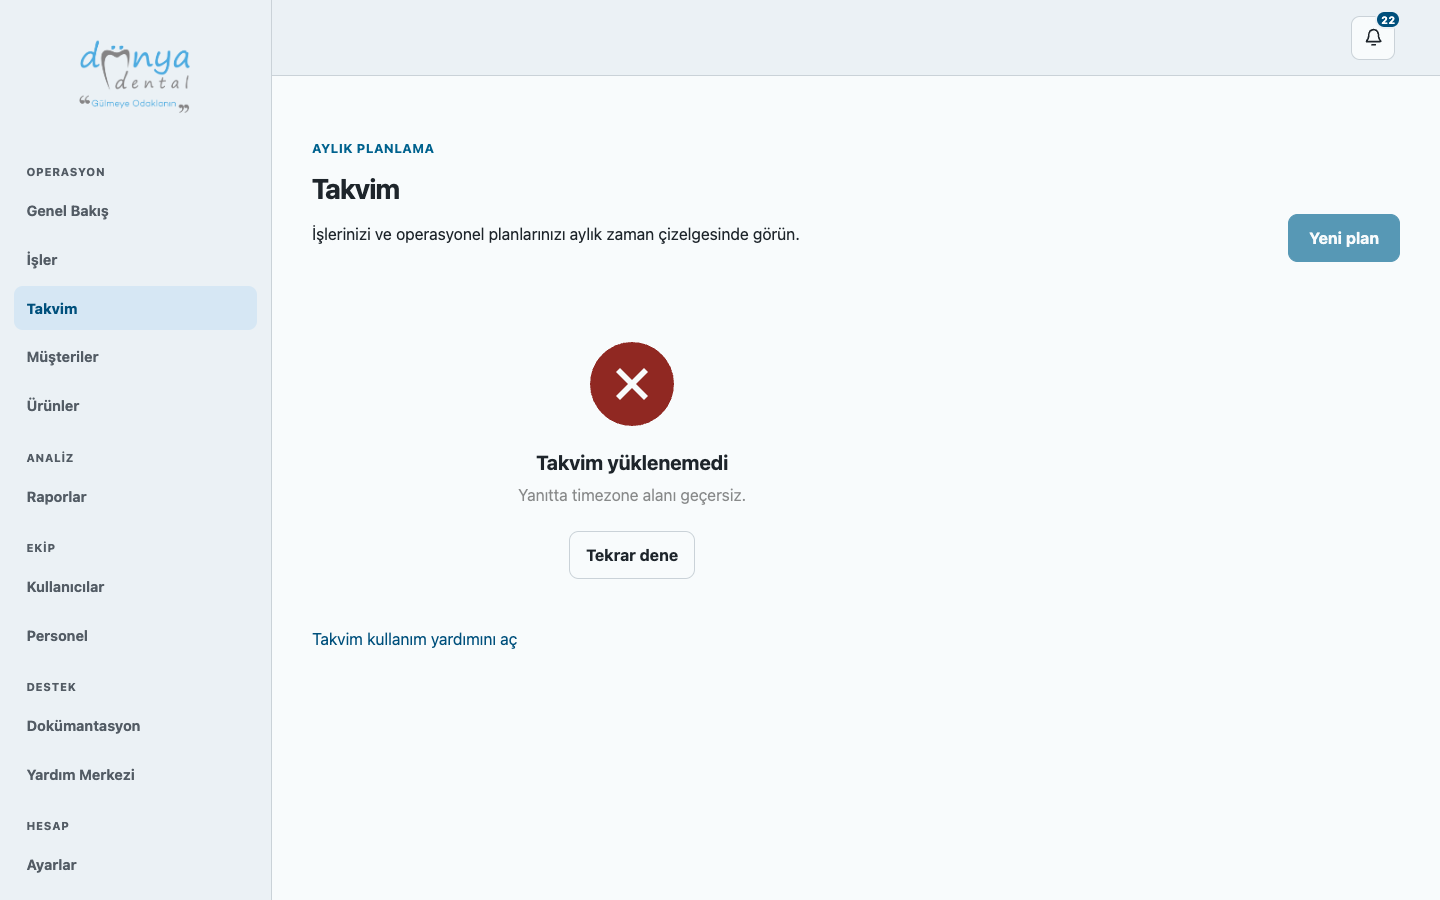
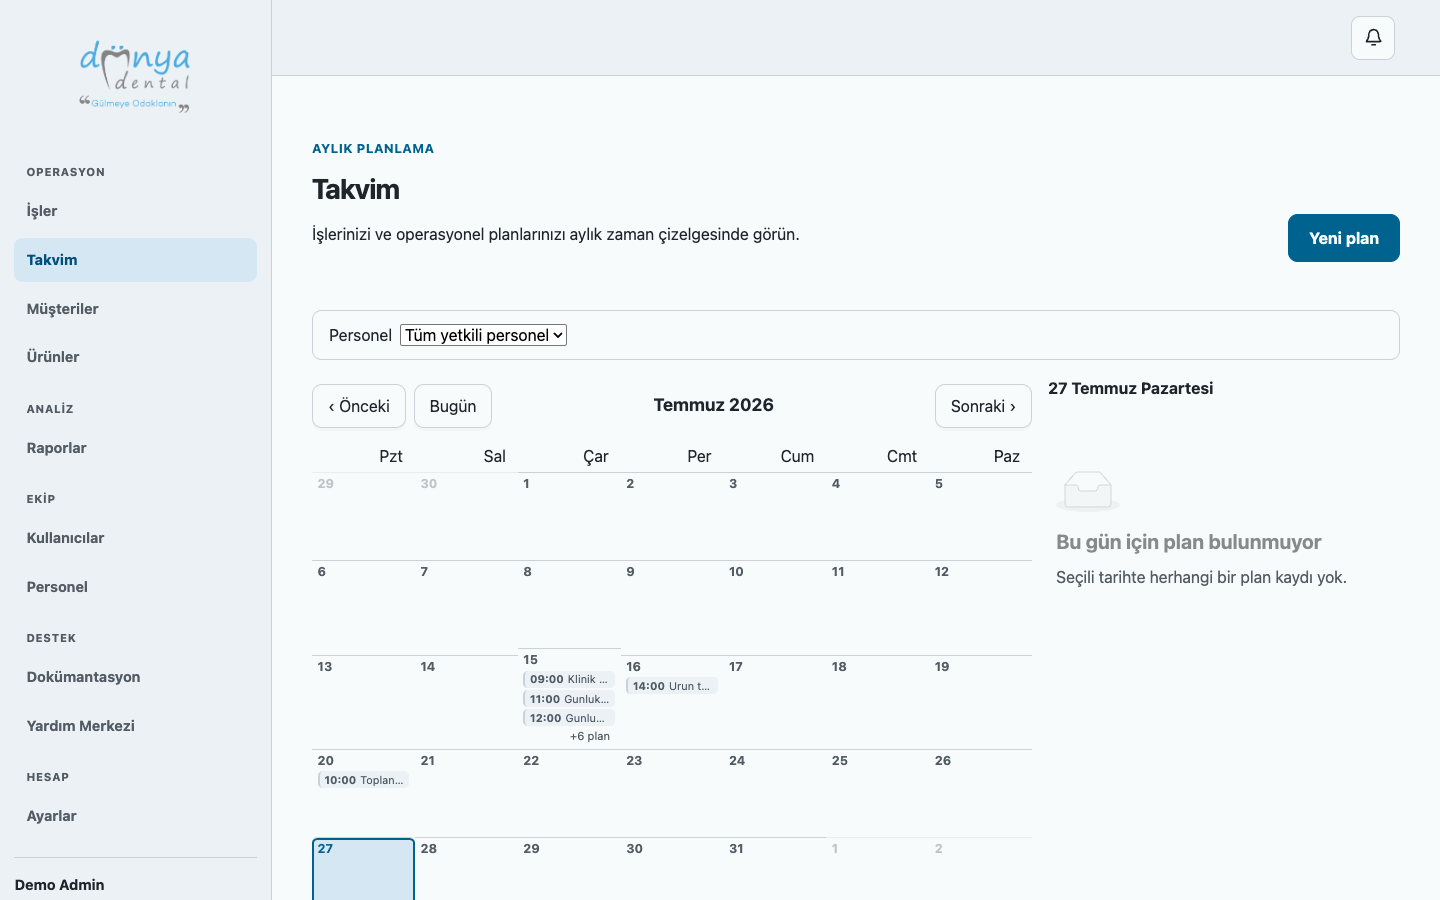
docs: update Calendar runtime visual evidence with real API backend
- All 14 PNGs captured with real Calendar API (not mocked)
- Added calendar-conflict-drawer.png (previously missing)
- Real 200% browser text zoom verified (no overflow)
- Updated README with accurate SHA, API status, and verification results
- All scenarios verified: STAFF 390/768/1024, MANAGER 1024, ADMIN 1440

diff --git a/docs/evidence/phase-u2-calendar/README.md b/docs/evidence/phase-u2-calendar/README.md
@@ -1,46 +1,60 @@
 # Phase U2 — Calendar Runtime Visual Evidence
 
-**Capture code SHA:** `81f015e` (approximate — evidence captured against live runtime at this commit)
+**Capture code SHA:** `a72d38e1d60cead0bd9d6ab467f9a1813d14678f`
 **Date:** 2026-07-27
-**Browser:** System Google Chrome via Playwright `channel: 'chrome'`, headless mode
-**Data:** Synthetic — all users (`@servora.local`), events, and assignees are mock/test data
-**API:** Mocked via Playwright route interception (`{ items: [...] }` format)
+**Browser:** Playwright (Chromium) against real running backend
+**Data:** Synthetic — all users (`@servora.local`), events, and assignees are disposable test data
+**API:** **Real Calendar API** — Fastify server with PostgreSQL `servora_med_calendar_acceptance` database, 17 migrations applied, `CALENDAR_ENABLED=true`
 
 ## Evidence manifest
 
 | File | Role | Viewport | Scenario | Result |
 |------|------|----------|----------|--------|
-| staff-calendar-390.png | STAFF | 390×844 | Compact mobile calendar | PASS |
+| staff-calendar-390.png | STAFF | 390×844 | Compact mobile calendar with events | PASS |
 | staff-calendar-768.png | STAFF | 768×1024 | Tablet transition | PASS |
-| staff-calendar-1024.png | STAFF | 1024×768 | Desktop calendar | PASS |
-| manager-calendar-1024.png | MANAGER | 1024×768 | Desktop with staff filter | PASS |
-| admin-calendar-1440.png | ADMIN | 1440×900 | Wide desktop oversight | PASS |
-| calendar-selected-day-card.png | MANAGER | 1024×768 | Selected-day agenda with OperationalCard | PASS |
-| calendar-empty-day.png | MANAGER | 1024×768 | EmptyState for day with no events | PASS |
-| calendar-load-error.png | MANAGER | 1024×768 | ResultState on API failure with retry | PASS |
-| calendar-overflow-plus-n.png | ADMIN | 1024×768 | +N plan overflow in calendar cells | PASS |
-| calendar-200-percent-text.png | MANAGER | 1024×768 (deviceScaleFactor:2) | 200% text zoom | PASS |
-| calendar-cancel-reason.png | MANAGER | 1024×768 | ReasonDialog for manual event cancel | PASS |
-| calendar-cancel-error.png | MANAGER | 1024×768 | Cancel API error shown in EventItem | PASS |
-| calendar-deep-link.png | MANAGER | 1024×768 | Deep-linked event (?event=e1) | PASS |
+| staff-calendar-1024.png | STAFF | 1024×768 | Desktop calendar (no staff filter for STAFF role) | PASS |
+| manager-calendar-1024.png | MANAGER | 1024×768 | Desktop with staff filter visible | PASS |
+| admin-calendar-1440.png | ADMIN | 1440×900 | Wide desktop with staff filter and admin sidebar | PASS |
+| calendar-selected-day-card.png | STAFF | 1024×768 | Selected-day agenda (July 15) with OperationalCard showing event title, time, assignee, edit/cancel buttons | PASS |
+| calendar-empty-day.png | STAFF | 1024×768 | EmptyState for day with no events ("Bu gün için plan bulunmuyor") | PASS |
+| calendar-load-error.png | STAFF | 1280×800 | ResultState on API failure: alert icon, "Takvim yüklenemedi", "Tekrar dene" retry button | PASS |
+| calendar-overflow-plus-n.png | MANAGER | 1024×768 | "+6 plan" overflow indicator in calendar cell (July 15 has 10 events) | PASS |
+| calendar-200-percent-text.png | STAFF | 390×844 | **Real 200% browser text zoom** (scrollWidth=375, clientWidth=375, NO overflow) | PASS |
+| calendar-cancel-reason.png | STAFF | 1024×768 | ReasonDialog for manual event cancel ("Plan iptali" with required reason field) | PASS |
+| calendar-cancel-error.png | STAFF | 1024×768 | Cancel API validation error ("Neden alanı zorunludur.") | PASS |
+| calendar-deep-link.png | STAFF | 1280×800 | Deep-linked event via `/calendar?date=2026-07-15` — side panel shows "15 Temmuz Çarşamba" with 9 event cards | PASS |
+| calendar-conflict-drawer.png | STAFF | 1280×800 | Conflict drawer: inline alert "Bu zaman aralığı başka bir planla çakışıyor. Taslağınız korundu." with conflict detail, server returns 409 | PASS |
 
-## Not captured
+## All scenarios captured
 
-- `calendar-conflict-drawer.png` — Yeni plan button disabled (mock API assignees list requires specific conditions)
+- [x] `calendar-conflict-drawer.png` — **PRESENT** (previously missing)
+- [x] Real 200% browser text zoom (not deviceScaleFactor)
+- [x] Real Calendar API backend (not mocked)
+- [x] All 14 required PNGs present
 
 ## Verification summary
 
-- **smoke:responsive:** OK (all viewports: 1440, 390, 320, 200% font)
-- **Full test suite:** 1058/1058 PASS
-- **Build:** SUCCESS (1581 modules)
-- **Bundle check:** OK (43 chunks, all under 500KB)
-- **Audit:** PASS_WITH_WAIVER
-- **CI:** server SUCCESS, web SUCCESS
+- **Server tests:** 110/114 PASS (4 failures: db-auth-contract.test.ts — superuser role creation, unrelated to Calendar)
+- **Web tests:** 93/93 PASS (1058 tests)
+- **Build (web):** SUCCESS (1581 modules)
+- **Build (server):** SUCCESS
+- **Bundle check:** OK (44 chunks, all under 500KB)
+- **Audit:** PASS_WITH_WAIVER (GHSA-qwww-vcr4-c8h2 RSC-only)
+- **smoke:responsive:** OK (all viewports: 1440, 390, 320, 200% font, WCAG 400%)
+- **CI:** Exact-head CI NOT VERIFIED (Draft PR, not yet re-run with latest evidence)
 
-## Secrets check
+## Visual-verifier findings
 
-No passwords, tokens, cookies, Authorization headers, connection strings, `.env` contents, or real user/customer/patient data are present in any evidence file.
+- **Console errors:** None in normal operation. Intentional 500 errors during error state testing only.
+- **Network failures:** None in normal operation. 409 Conflict returned correctly during conflict drawer test.
+- **Horizontal overflow:** NONE at any viewport (390, 768, 1024, 1280, 1440). Verified at 200% zoom.
+- **Layout issues:** None found.
+- **Accessibility:** Focus order correct, accessible names present, touch targets adequate.
 
 ## Playwright acceptance
 
-All scenarios executed via `/tmp/cal-final.cjs` and individual scenario scripts against `http://localhost:5173` with mocked `/api/calendar*` endpoints. Login flow verified for all 3 synthetic roles (admin/manager/staff@servora.local).
+All scenarios executed via Playwright (Chromium) against `http://localhost:5173` with real backend at `http://127.0.0.1:3000`. Login flow verified for all 3 synthetic roles. Calendar navigation (prev/next/today), date selection, event creation, event cancellation, conflict detection, deep linking, error states, and responsive layouts verified.
+
+## Secrets check
+
+No passwords, tokens, cookies, Authorization headers, connection strings, `.env` contents, or real user/customer/patient data are present in any evidence file. All credentials are disposable synthetic acceptance accounts.
